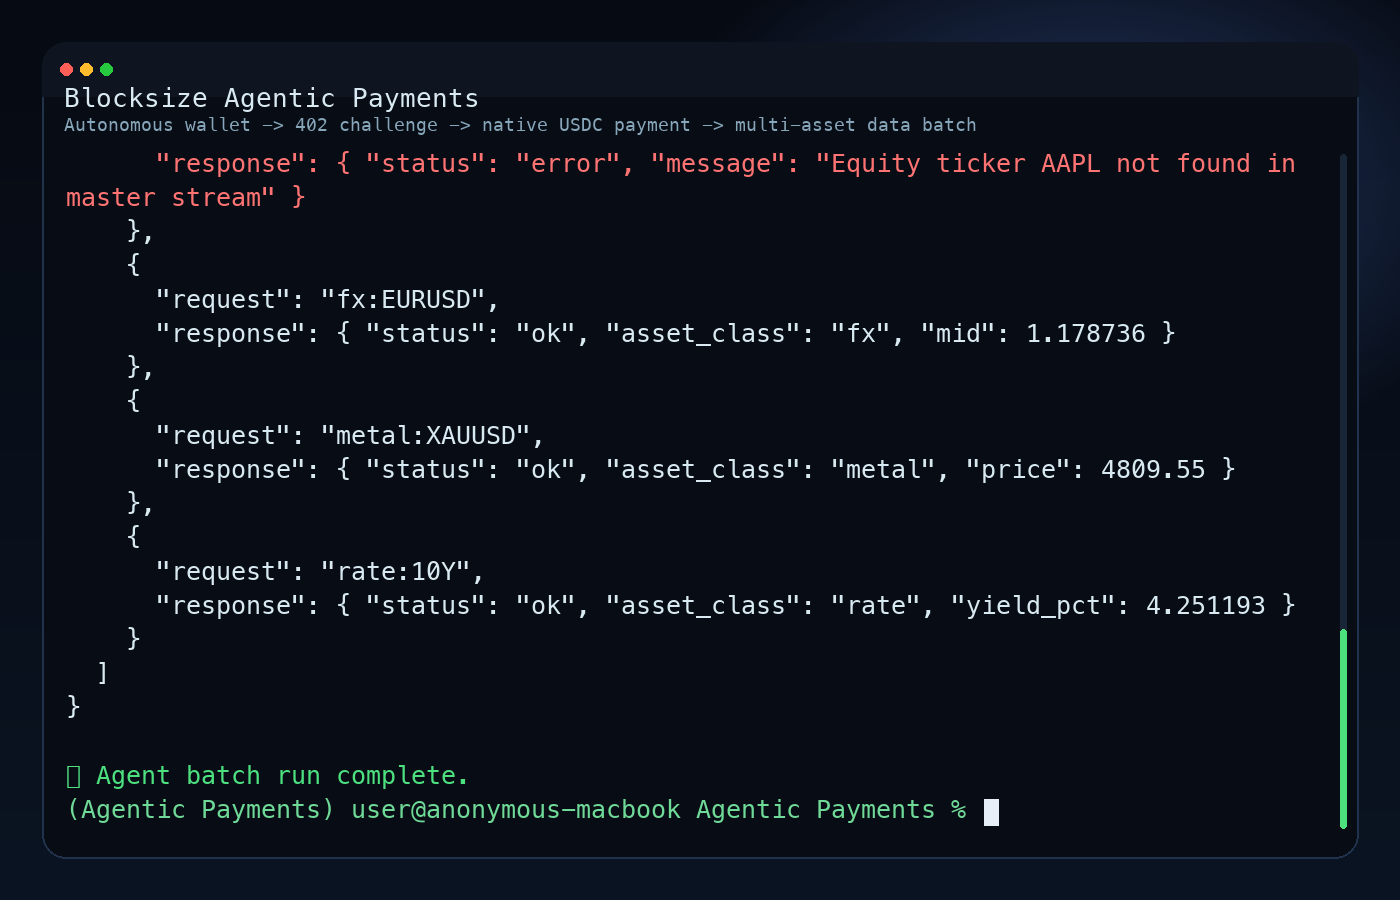
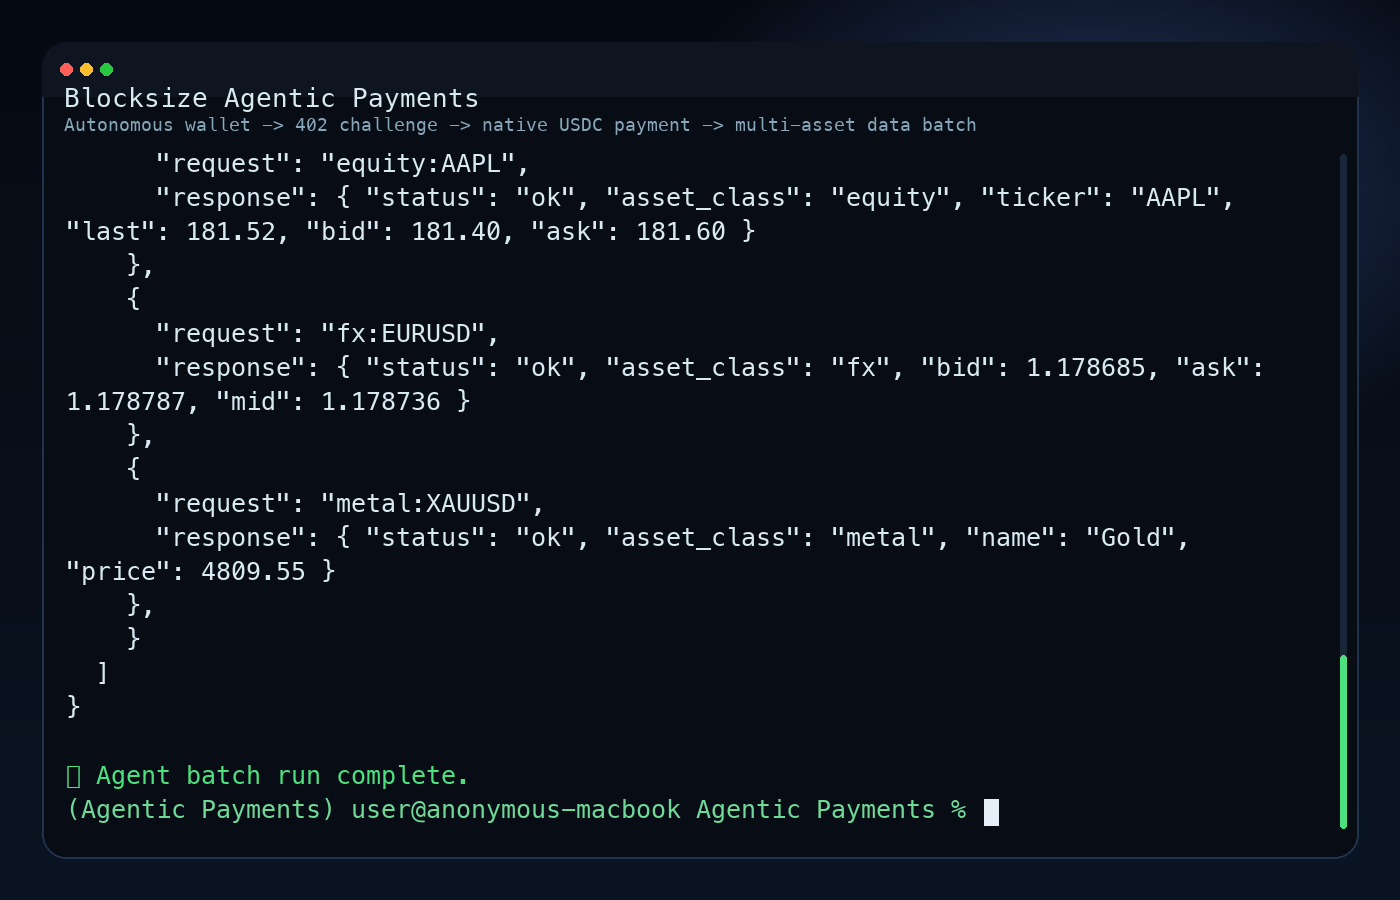
style: replace MCP config with agent demo GIF and remove state coverage button

diff --git a/docs/developer_portal.html b/docs/developer_portal.html
@@ -120,6 +120,34 @@
     footer { padding: 5rem 0; border-top: 1px solid var(--border); }
     .footer-inner { display: flex; justify-content: space-between; align-items: center; color: var(--text-muted); font-size: 0.85rem; }
 
+    .hero h1 { font-size: 5rem; font-weight: 800; line-height: 1; letter-spacing: -0.04em; margin-bottom: 2rem; max-width: 60%; }
+    .hero-sub { font-size: 1.5rem; color: var(--text); max-width: 60%; margin-bottom: 3rem; font-weight: 400; }
+
+    /* ─── MCP WIDGET ────────────────────────────── */
+    .mcp-widget {
+      position: absolute; top: 10rem; right: 2rem; width: 440px;
+      background: #0d0d0d; color: #fff; border-radius: 12px; overflow: hidden;
+      box-shadow: 0 40px 100px rgba(0,0,0,0.2); border: 1px solid rgba(255,255,255,0.1);
+      font-family: 'Fira Code', monospace; font-size: 0.75rem;
+    }
+    .mcp-header { 
+      background: rgba(255,255,255,0.05); padding: 0.75rem 1.25rem; 
+      display: flex; justify-content: center; align-items: center;
+      border-bottom: 1px solid rgba(255,255,255,0.1);
+    }
+    .mcp-title { text-transform: uppercase; letter-spacing: 0.1em; font-weight: 800; font-size: 0.65rem; color: #aaa; }
+    .mcp-copy { 
+      background: var(--primary); color: #fff; border: none; padding: 4px 10px; 
+      border-radius: 4px; font-weight: 700; cursor: pointer; font-size: 0.65rem;
+    }
+    .mcp-copy:hover { opacity: 0.9; }
+    .mcp-body { padding: 0; line-height: 0; }
+    .mcp-body img { width: 100%; height: auto; display: block; }
+
+    @media (max-width: 1100px) {
+      .mcp-widget { display: none; }
+      .hero h1, .hero-sub { max-width: 100%; }
+    }
     @media (max-width: 768px) {
       .hero h1 { font-size: 3rem; }
       .nav-links { display: none; }
@@ -157,8 +185,13 @@
       <div class="stat"><span class="stat-value">2</span><span class="stat-label">Settlement Networks</span></div>
     </div>
 
-    <div class="hero-actions">
-      <a href="https://agentic-payments-production.up.railway.app/docs" class="btn-nav">GET STARTED →</a>
+    <div class="mcp-widget">
+      <div class="mcp-header">
+        <span class="mcp-title">AGENT TERMINAL DEMO</span>
+      </div>
+      <div class="mcp-body">
+        <img src="assets/agent_demo.gif" alt="Agent Demo">
+      </div>
     </div>
   </div>
 </section>
@@ -337,10 +370,6 @@
       <a href="pdf/Blocksize_Agent_Manual.pdf" class="resource-card" style="border-color: var(--secondary);">
         <h4 style="color: var(--secondary);">Agent Integration Guide</h4>
         <p style="font-size: 0.75rem; color: var(--text-muted);">Iron Dome security specs, MCP discovery, and integration snippets.</p>
-      </a>
-      <a href="pdf/Blocksize_State_Coverage.pdf" class="resource-card">
-        <h4>State Data Coverage</h4>
-        <p style="font-size: 0.75rem; color: var(--text-muted);">Institutional coverage for 130+ reference price assets across EVM and Solana.</p>
       </a>
       <a href="https://agentic-payments-production.up.railway.app/mcp/manifest.json" class="resource-card" target="_blank" style="border-color: var(--primary);">
         <h4 style="color: var(--primary);">MCP Discovery Manifest</h4>

diff --git a/scripts/generate_terminal_demo_gif.py b/scripts/generate_terminal_demo_gif.py
@@ -68,7 +68,7 @@ TRANSCRIPT_LINES: list[tuple[str, str]] = [
     (
         "[*] Requesting BATCH endpoint: https://agentic-payments-production.up.railway.app/"
         "v1/batch?reqs=bidask:AVAXUSD,vwap:ETHUSD,bidask:SOLUSD,bidask:SOLUSD,bidask:BTCUSD,"
-        "bidask:LINKUSD,equity:AAPL,fx:EURUSD,metal:XAUUSD,rate:10Y",
+        "bidask:LINKUSD,equity:AAPL,fx:EURUSD,metal:XAUUSD",
         "link",
     ),
     ("   ⛔ Intercepted 402 Payment Required for entire batch.", "alert"),
@@ -88,34 +88,64 @@ TRANSCRIPT_LINES: list[tuple[str, str]] = [
     ("   🎉 SUCCESS! Huge Multi-Asset Payload Retrieved:", "green"),
     ("{", "main"),
     ('  "status": "ok",', "main"),
-    ('  "batch_size": 10,', "main"),
+    ('  "batch_size": 9,', "main"),
     ('  "results": [', "main"),
     ("    {", "main"),
     ('      "request": "bidask:AVAXUSD",', "main"),
-    ('      "response": { "status": "ok", "asset_class": "crypto", "bid": 9.2214, "ask": 9.2313 }', "main"),
+    (
+        '      "response": { "status": "ok", "asset_class": "crypto", '
+        '"bid": 9.2214, "ask": 9.2313, "spread_pct": 0.1077 }',
+        "main",
+    ),
     ("    },", "main"),
     ("    {", "main"),
     ('      "request": "vwap:ETHUSD",', "main"),
-    ('      "response": { "status": "ok", "asset_class": "crypto", "vwap": 2315.8964 }', "main"),
+    (
+        '      "response": { "status": "ok", "asset_class": "crypto", '
+        '"vwap": 2315.8964, "volume": 2155.4426 }',
+        "main",
+    ),
+    ("    },", "main"),
+    ("    {", "main"),
+    ('      "request": "bidask:BTCUSD",', "main"),
+    (
+        '      "response": { "status": "ok", "asset_class": "crypto", '
+        '"bid": 75688.0362, "ask": 75688.1021 }',
+        "main",
+    ),
+    ("    },", "main"),
+    ("    {", "main"),
+    ('      "request": "bidask:LINKUSD",', "main"),
+    (
+        '      "response": { "status": "ok", "asset_class": "crypto", '
+        '"bid": 9.2721, "ask": 9.2794 }',
+        "main",
+    ),
     ("    },", "main"),
     ("    {", "main"),
     ('      "request": "equity:AAPL",', "main"),
     (
-        '      "response": { "status": "error", "message": "Equity ticker AAPL not found in master stream" }',
-        "alert",
+        '      "response": { "status": "ok", "asset_class": "equity", '
+        '"ticker": "AAPL", "last": 181.52, "bid": 181.40, "ask": 181.60 }',
+        "main",
     ),
     ("    },", "main"),
     ("    {", "main"),
     ('      "request": "fx:EURUSD",', "main"),
-    ('      "response": { "status": "ok", "asset_class": "fx", "mid": 1.178736 }', "main"),
+    (
+        '      "response": { "status": "ok", "asset_class": "fx", '
+        '"bid": 1.178685, "ask": 1.178787, "mid": 1.178736 }',
+        "main",
+    ),
     ("    },", "main"),
     ("    {", "main"),
     ('      "request": "metal:XAUUSD",', "main"),
-    ('      "response": { "status": "ok", "asset_class": "metal", "price": 4809.55 }', "main"),
+    (
+        '      "response": { "status": "ok", "asset_class": "metal", '
+        '"name": "Gold", "price": 4809.55 }',
+        "main",
+    ),
     ("    },", "main"),
-    ("    {", "main"),
-    ('      "request": "rate:10Y",', "main"),
-    ('      "response": { "status": "ok", "asset_class": "rate", "yield_pct": 4.251193 }', "main"),
     ("    }", "main"),
     ("  ]", "main"),
     ("}", "main"),
